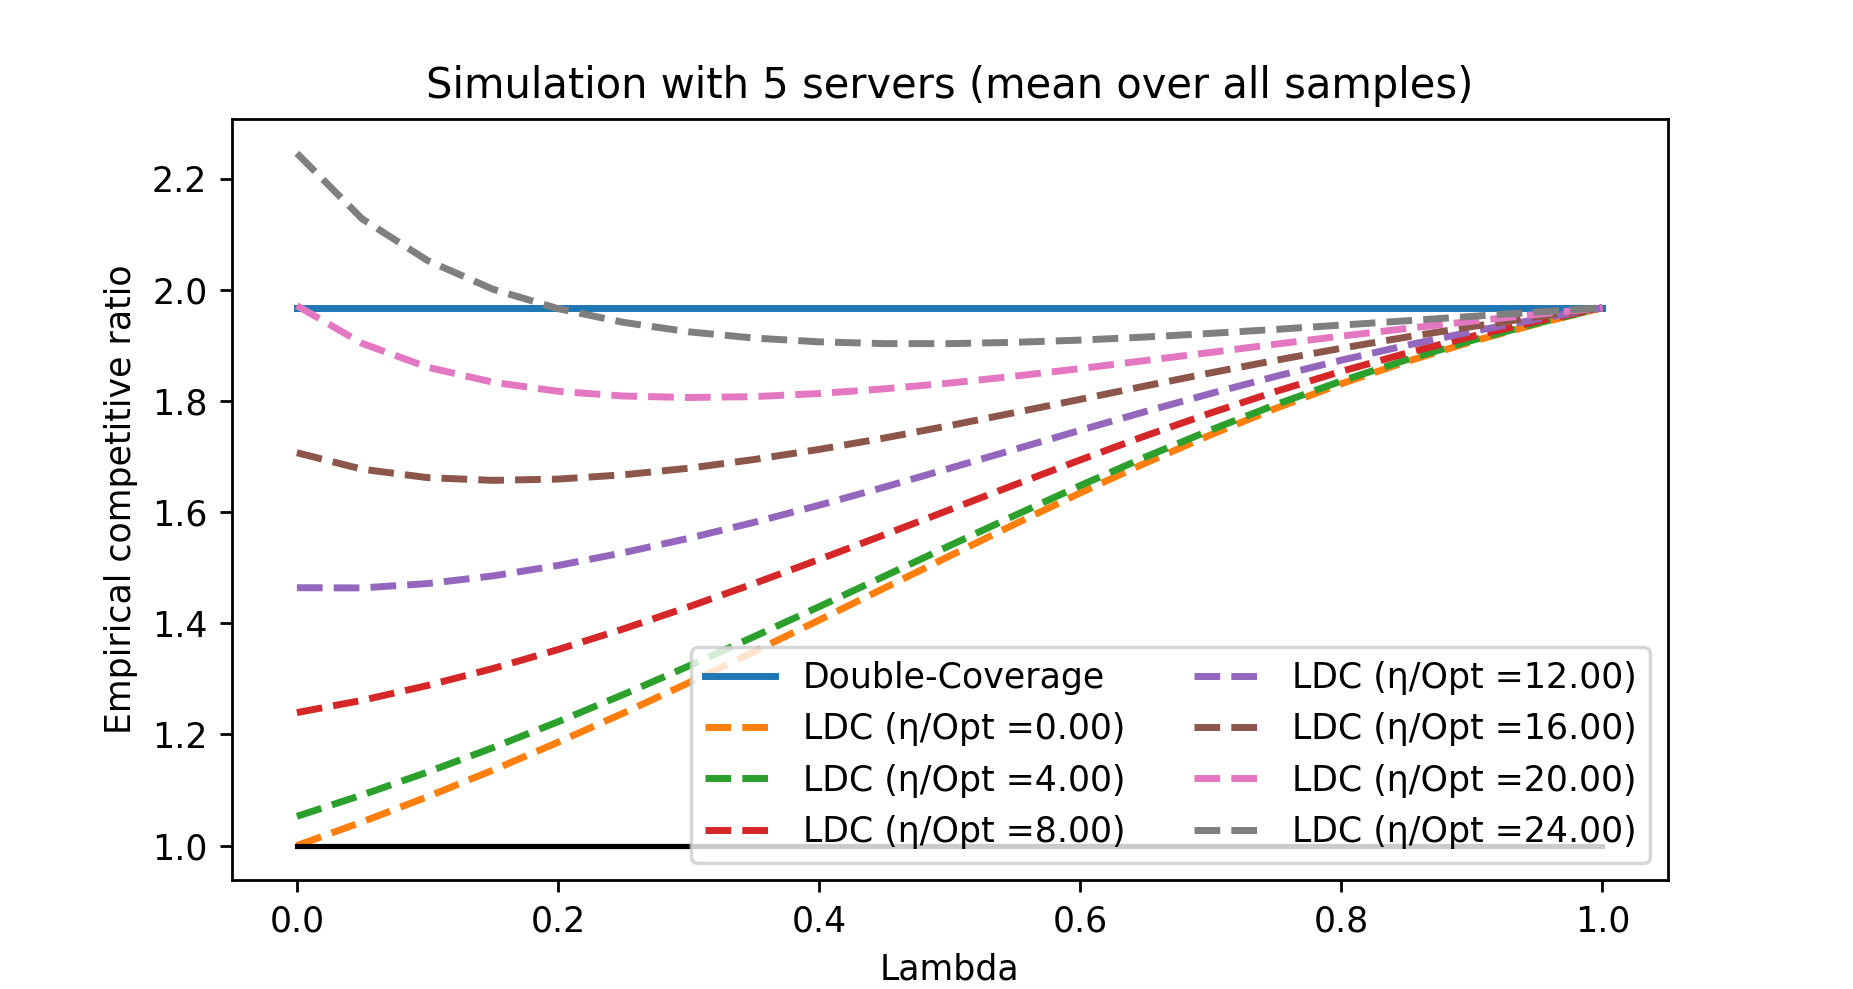
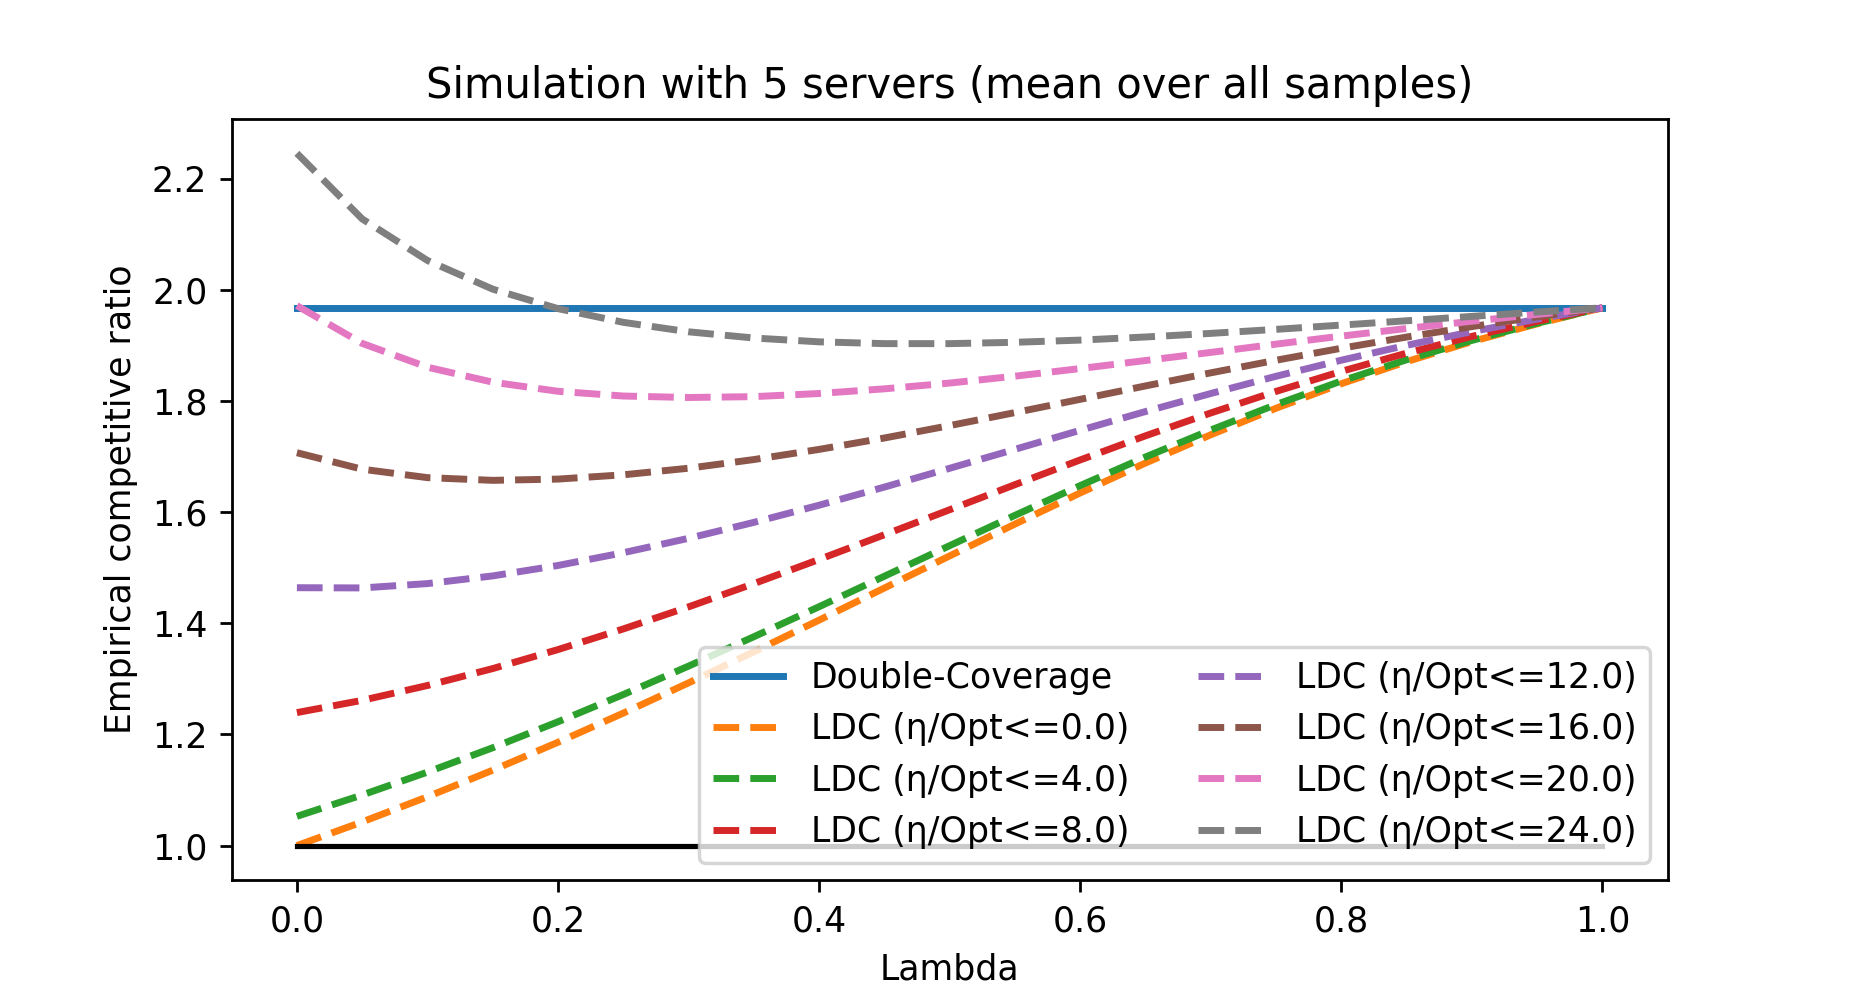
udpating plots

Changed region(s): [[0.4307, 0.6673, 0.6152, 0.8797], [0.6767, 0.6673, 0.8613, 0.8797], [0.3691, 0.6673, 0.3999, 0.8797]]

diff --git a/scripts/plot.py b/scripts/plot.py
@@ -16,7 +16,7 @@ def create_arg_parser():
         description='Plot results from kserver simulation')
     parser.add_argument('sampleFile')
     parser.add_argument('-b', '--bin_size', default=0.25)
-    parser.add_argument('-l', '--lambdas', default=5, type=int)
+    parser.add_argument('-l', '--lambdas', default=6, type=int)
     parser.add_argument('-k', '--number_of_servers', default=2)
     parser.add_argument('--max', action='store_true')
 
@@ -60,7 +60,7 @@ def plot_lambda(df, eta_res, args, det_alg, pred_alg):
 
     for label, l in list(grouped_data):
         grouped_data[(label, l)].plot(ax=ax, linewidth=2,
-                                      style='--', label=f"{pred_alg} (η/Opt ={l:1.2f})", legend=True)
+                                      style='--', label=f"{pred_alg} (η/Opt<={l:1.1f})", legend=True)
 
     plt.plot((0, 1), (1, 1), 'black')
 
